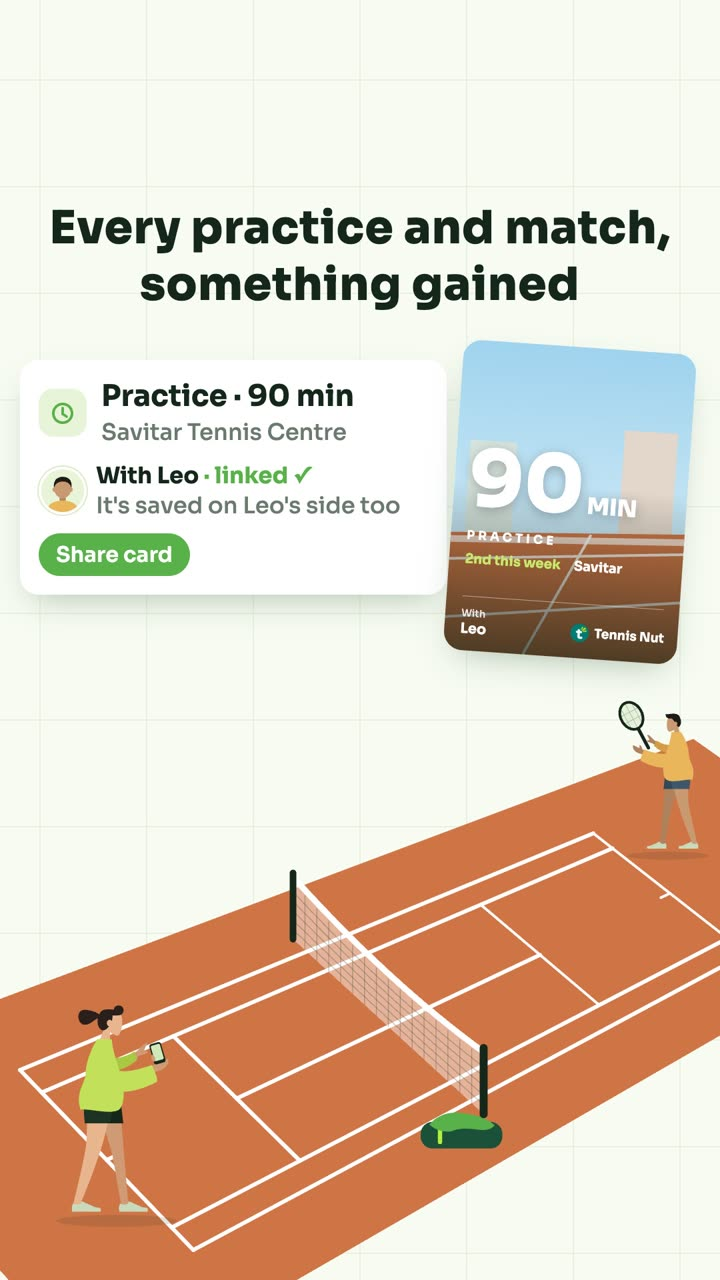
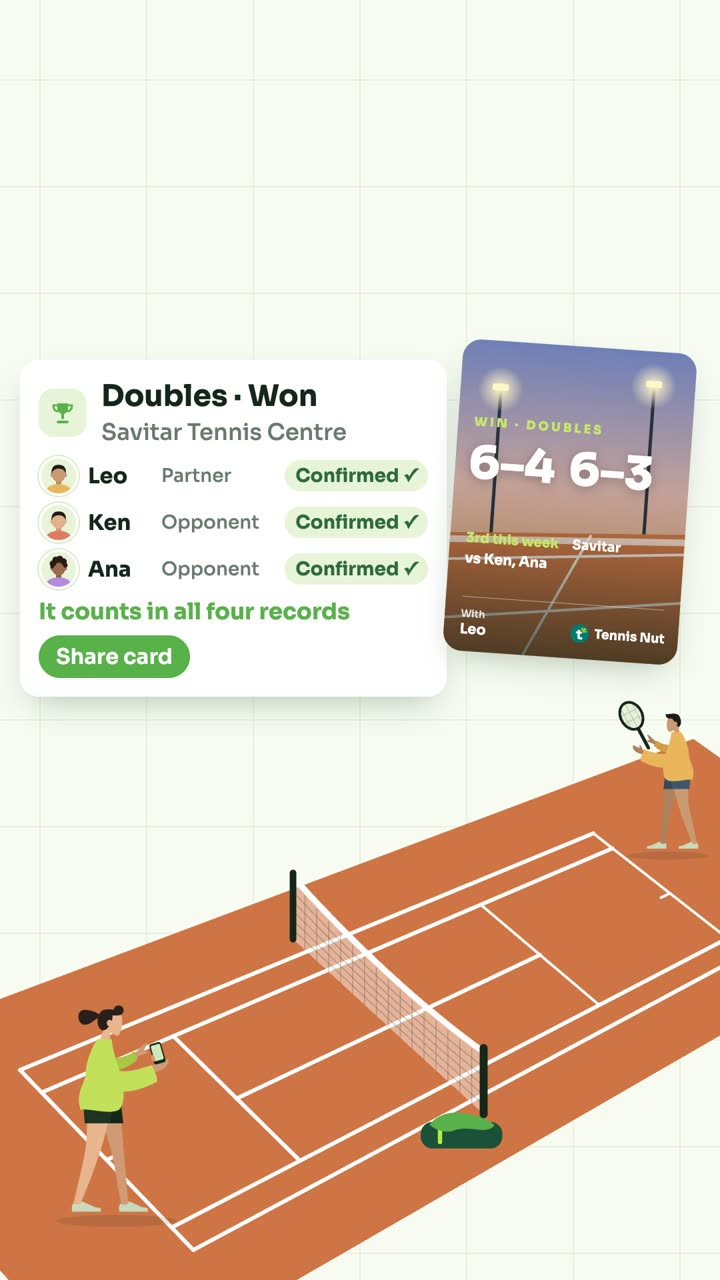
fix(home): 短片封面改成不帶片內標題的雙打比賽那一幕（段落標題「每次上場，都算數」和封面標題不再疊兩個大標）；「任何人都有資格問。」固定換到第二行
Claude-Session: https://claude.ai/code/session_01FhLZvXT4VZppa1adhSJ1Py

Changed region(s): [[0.0306, 0.1562, 0.9778, 0.5625]]

diff --git a/index.html b/index.html
@@ -1750,7 +1750,7 @@
           </button>
         </div>
         <div class="film-copy">
-          <p class="explainer-note">有疑問的時候，專家就在那裡；任何人都有資格問。</p>
+          <p class="explainer-note">有疑問的時候，專家就在那裡；<br>任何人都有資格問。</p>
         </div>
         <script>
           (function () {

diff --git a/en/index.html b/en/index.html
@@ -1690,7 +1690,7 @@
           </button>
         </div>
         <div class="film-copy">
-          <p class="explainer-note">When you have a question, the expert is right there. Anyone can ask.</p>
+          <p class="explainer-note">When you have a question, the expert is right there.<br>Anyone can ask.</p>
         </div>
         <script>
           (function () {
